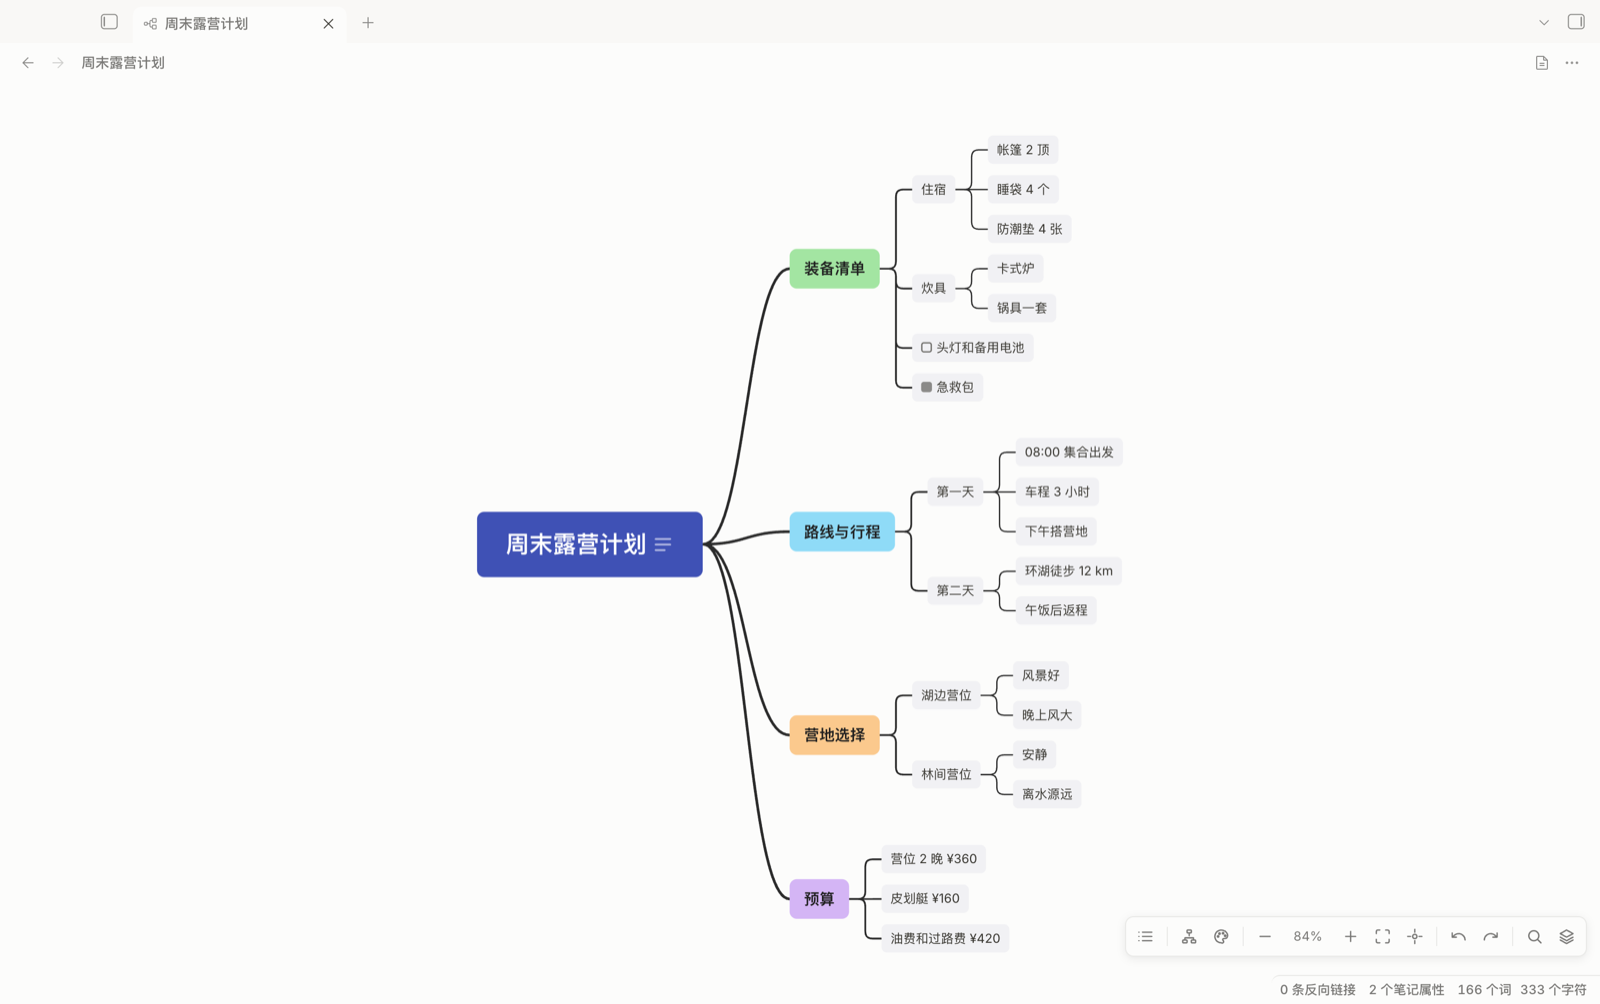
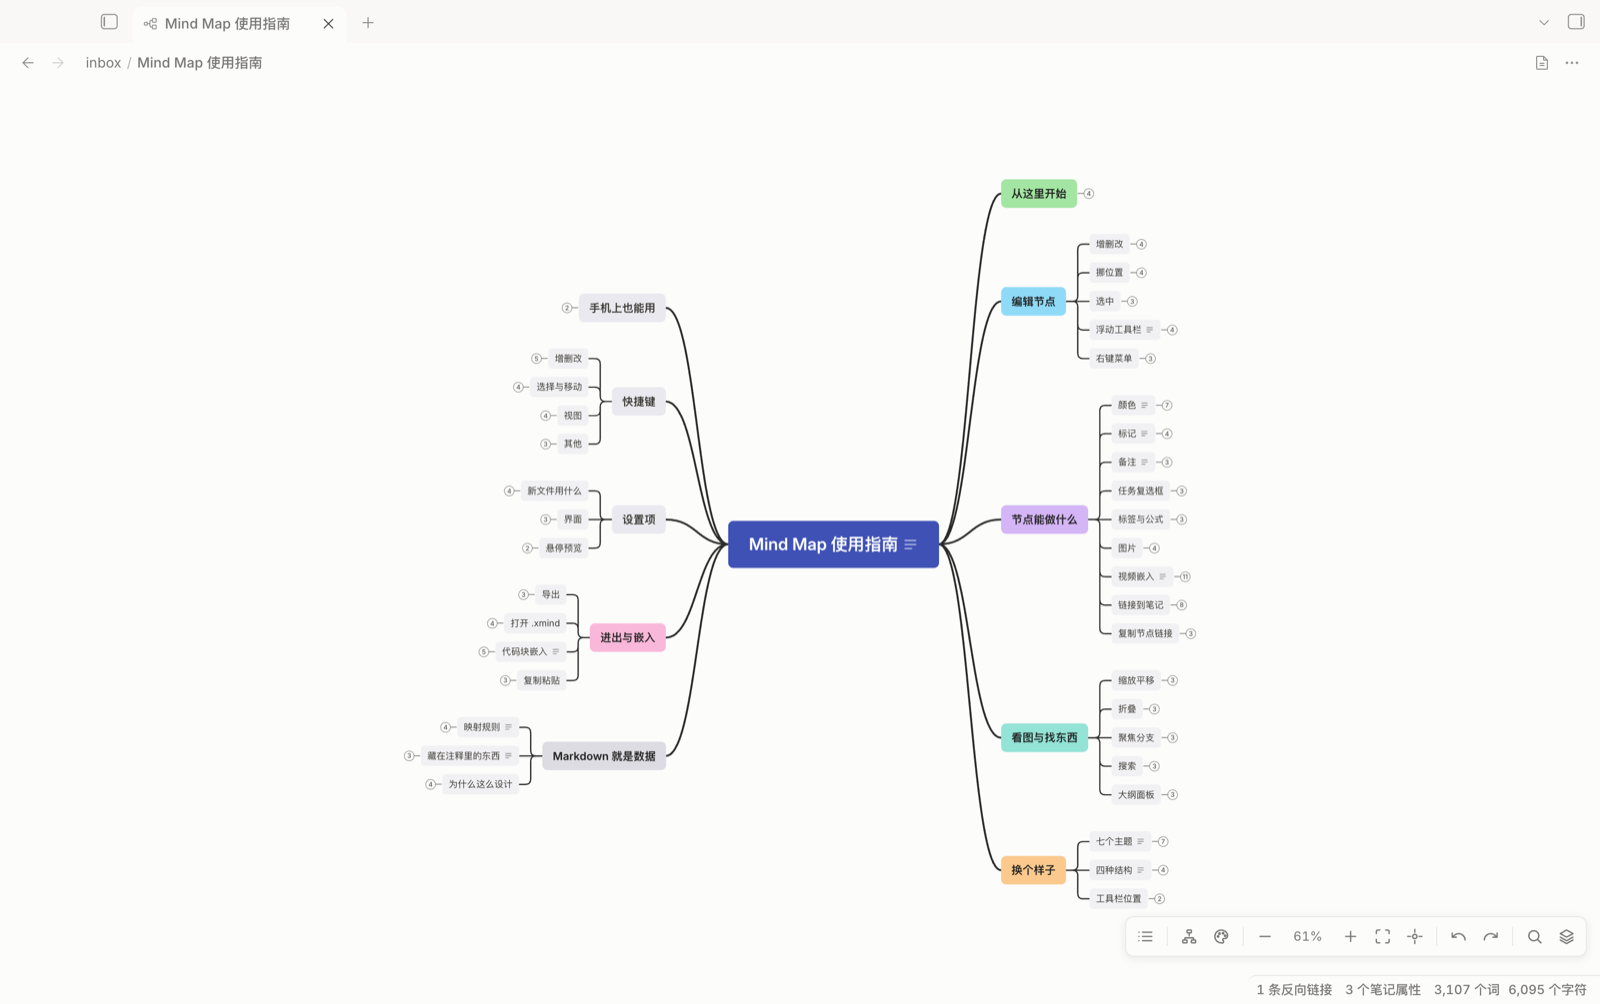
Use the bundled guide map as the README screenshot

diff --git a/README.md b/README.md
@@ -3,7 +3,7 @@
 XMind 风格的思维导图插件。Markdown 是唯一数据源：标题和列表就是节点，脑图视图只是同一个 `.md`
 文件的另一种编辑器，改哪边另一边都跟着变。零运行时依赖，桌面端和移动端都能用。
 
-![snow 主题](docs/snow.png)
+![Mind Map 使用指南（snow 主题）](docs/snow.png)
 
 ## 用法
 
